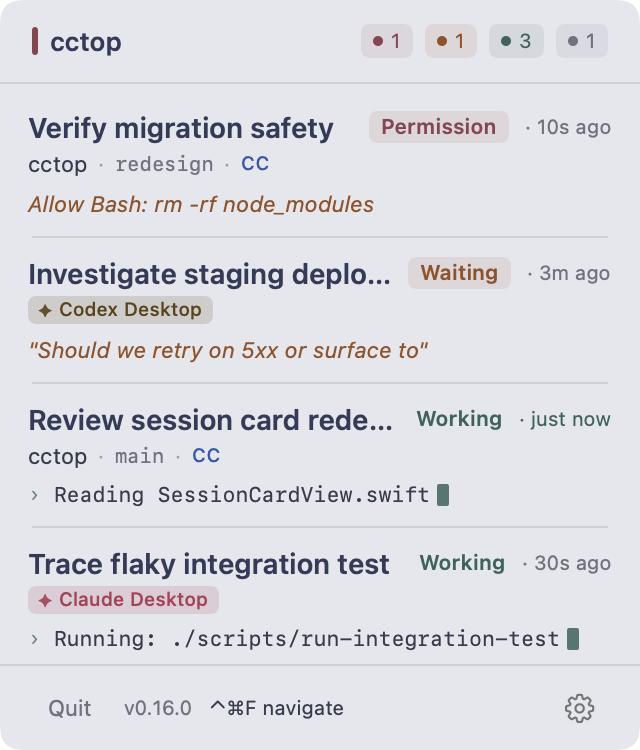
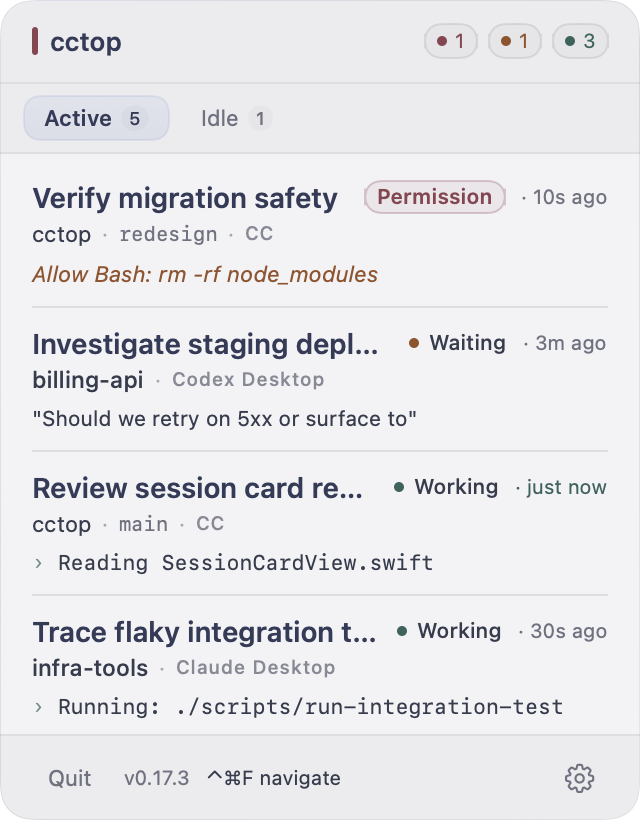
Update panel screenshots and screenshot docs

diff --git a/site/index.html b/site/index.html
@@ -491,7 +491,7 @@
       </div>
       <div>
         <div class="shot-frame narrow">
-          <img src="https://raw.githubusercontent.com/st0012/cctop/master/docs/menubar-tokyonight-dark.png" alt="cctop menubar panel showing five active coding sessions" width="640" height="750" decoding="async" fetchpriority="high" />
+          <img src="https://raw.githubusercontent.com/st0012/cctop/master/docs/menubar-tokyonight-dark.png" alt="cctop menubar panel showing five active coding sessions" width="640" height="820" decoding="async" fetchpriority="high" />
         </div>
         <div class="shot-caption">Tokyo Night theme</div>
       </div>
@@ -601,7 +601,7 @@
           </div>
           <div>
             <div class="shot-frame narrow">
-              <img src="https://raw.githubusercontent.com/st0012/cctop/master/docs/menubar-navigate.png" alt="Navigate mode" loading="lazy" width="640" height="750" decoding="async" />
+              <img src="https://raw.githubusercontent.com/st0012/cctop/master/docs/menubar-navigate.png" alt="Navigate mode" loading="lazy" width="640" height="820" decoding="async" />
             </div>
             <div class="shot-caption">Press 1–9 to jump</div>
           </div>
@@ -660,19 +660,19 @@
     <p class="section-sub reveal" style="--rd:60ms">Four color schemes inspired by beloved developer tools — each with dark and light variants. Switch in Settings &gt; Appearance &gt; Color.</p>
     <div class="themes">
       <div class="theme-card reveal" style="--rd:0ms">
-        <img src="https://raw.githubusercontent.com/st0012/cctop/master/docs/theme-claude-dark.png" alt="Claude theme" loading="lazy" width="640" height="750" decoding="async" />
+        <img src="https://raw.githubusercontent.com/st0012/cctop/master/docs/theme-claude-dark.png" alt="Claude theme" loading="lazy" width="640" height="820" decoding="async" />
         <div class="name"><span class="sw" style="background:#d97757"></span> Claude</div>
       </div>
       <div class="theme-card reveal" style="--rd:60ms">
-        <img src="https://raw.githubusercontent.com/st0012/cctop/master/docs/theme-tokyoNight-dark.png" alt="Tokyo Night theme" loading="lazy" width="640" height="750" decoding="async" />
+        <img src="https://raw.githubusercontent.com/st0012/cctop/master/docs/theme-tokyoNight-dark.png" alt="Tokyo Night theme" loading="lazy" width="640" height="820" decoding="async" />
         <div class="name"><span class="sw" style="background:#7aa2f7"></span> Tokyo Night</div>
       </div>
       <div class="theme-card reveal" style="--rd:120ms">
-        <img src="https://raw.githubusercontent.com/st0012/cctop/master/docs/theme-gruvbox-dark.png" alt="Gruvbox theme" loading="lazy" width="640" height="750" decoding="async" />
+        <img src="https://raw.githubusercontent.com/st0012/cctop/master/docs/theme-gruvbox-dark.png" alt="Gruvbox theme" loading="lazy" width="640" height="820" decoding="async" />
         <div class="name"><span class="sw" style="background:#b8bb26"></span> Gruvbox</div>
       </div>
       <div class="theme-card reveal" style="--rd:180ms">
-        <img src="https://raw.githubusercontent.com/st0012/cctop/master/docs/theme-nord-dark.png" alt="Nord theme" loading="lazy" width="640" height="750" decoding="async" />
+        <img src="https://raw.githubusercontent.com/st0012/cctop/master/docs/theme-nord-dark.png" alt="Nord theme" loading="lazy" width="640" height="820" decoding="async" />
         <div class="name"><span class="sw" style="background:#88c0d0"></span> Nord</div>
       </div>
     </div>
@@ -715,7 +715,7 @@
       <div>
         <div class="shot-pair">
           <div class="shot-frame narrow">
-            <img src="https://raw.githubusercontent.com/st0012/cctop/master/docs/menubar-light.png" alt="cctop in Claude light theme" loading="lazy" width="640" height="750" decoding="async" />
+            <img src="https://raw.githubusercontent.com/st0012/cctop/master/docs/menubar-light.png" alt="cctop in Claude light theme" loading="lazy" width="640" height="820" decoding="async" />
           </div>
           <div class="shot-caption">Claude theme · light</div>
         </div>

diff --git a/menubar/CctopMenubarTests/SnapshotTests.swift b/menubar/CctopMenubarTests/SnapshotTests.swift
@@ -139,14 +139,10 @@ final class SnapshotTests: XCTestCase {
         let styled = view
             .frame(width: width)
             .background {
-                ZStack {
-                    Color.panelBackground
-                    Color.panelMaterialOverlay
-                }
+                PanelSurfaceBackground(usesMaterial: false)
             }
             .overlay {
-                RoundedRectangle(cornerRadius: AppChrome.panelCornerRadius, style: .continuous)
-                    .stroke(Color.panelControlBorder, lineWidth: 1)
+                PanelAccentHairline(cornerRadius: AppChrome.panelCornerRadius)
             }
             .clipShape(RoundedRectangle(cornerRadius: AppChrome.panelCornerRadius, style: .continuous))
             .environment(\.colorScheme, colorScheme)

diff --git a/AGENTS.md b/AGENTS.md
@@ -588,19 +588,35 @@ If notarization fails, the script automatically fetches the notarization log via
 - Unsigned binaries in non-standard paths (like `Autoupdate`)
 - Missing hardened runtime flag
 
-## Menubar Screenshot
+## Menubar Screenshots
 
-The menubar screenshots (`docs/menubar-light.png` and `docs/menubar-dark.png`) are generated from a snapshot test that renders `PopupView` with mock data:
+Most static panel screenshots under `docs/` are generated from `CctopMenubarTests/SnapshotTests.swift`. The test suite renders `PopupView`, navigate mode, recent projects, empty state, onboarding settings, and every theme with deterministic mock data:
 
 ```bash
-# Regenerate the menubar screenshots (light + dark)
+# Regenerate all snapshot-backed PNGs under /tmp
 xcodebuild test -project menubar/CctopMenubar.xcodeproj -scheme CctopMenubar \
-  -only-testing:CctopMenubarTests/SnapshotTests/testGenerateMenubarScreenshot \
+  -only-testing:CctopMenubarTests/SnapshotTests \
   -derivedDataPath menubar/build/ CODE_SIGN_IDENTITY="-"
-cp /tmp/menubar-light.png /tmp/menubar-dark.png docs/
+
+# Copy the public documentation screenshots into docs/
+cp /tmp/menubar-light.png docs/menubar-light.png
+cp /tmp/menubar-dark.png docs/menubar-dark.png
+cp /tmp/menubar-navigate.png docs/menubar-navigate.png
+cp /tmp/menubar-recent.png docs/menubar-recent.png
+cp /tmp/empty-state-light.png docs/empty-state-light.png
+cp /tmp/empty-state-dark.png docs/empty-state-dark.png
+cp /tmp/theme-claude-dark.png docs/theme-claude-dark.png
+cp /tmp/theme-claude-light.png docs/theme-claude-light.png
+cp /tmp/theme-tokyoNight-dark.png docs/theme-tokyoNight-dark.png
+cp /tmp/theme-tokyoNight-light.png docs/theme-tokyoNight-light.png
+cp /tmp/theme-gruvbox-dark.png docs/theme-gruvbox-dark.png
+cp /tmp/theme-gruvbox-light.png docs/theme-gruvbox-light.png
+cp /tmp/theme-nord-dark.png docs/theme-nord-dark.png
+cp /tmp/theme-nord-light.png docs/theme-nord-light.png
+cp /tmp/theme-tokyoNight-dark.png docs/menubar-tokyonight-dark.png
 ```
 
-The showcase sessions are defined in `Session+Mock.swift` (`qaShowcase`). Edit that array to change what appears in the screenshots.
+The showcase sessions are defined in `Session+Mock.swift` (`qaShowcase`). Edit that array to change what appears in the screenshots. GIF demos and `docs/status-icon.png` have separate capture sources and should only be replaced when those flows change.
 
 ## Design Context
 

diff --git a/site/README.md b/site/README.md
@@ -40,5 +40,6 @@ Before pushing changes that affect anything in the "Manual" rows above, update
 `site/index.html` in the same commit. CI deploys whatever lands on master, so
 the README and the site should always match what shipped.
 
-For visuals: replace the screenshot under `docs/` and the site will reflect the
-new image without any site edit.
+For visuals: regenerate the snapshot-backed PNGs with `CctopMenubarTests/SnapshotTests`,
+replace the matching files under `docs/`, and the site will reflect the new images
+without a markup edit unless the image dimensions changed.
